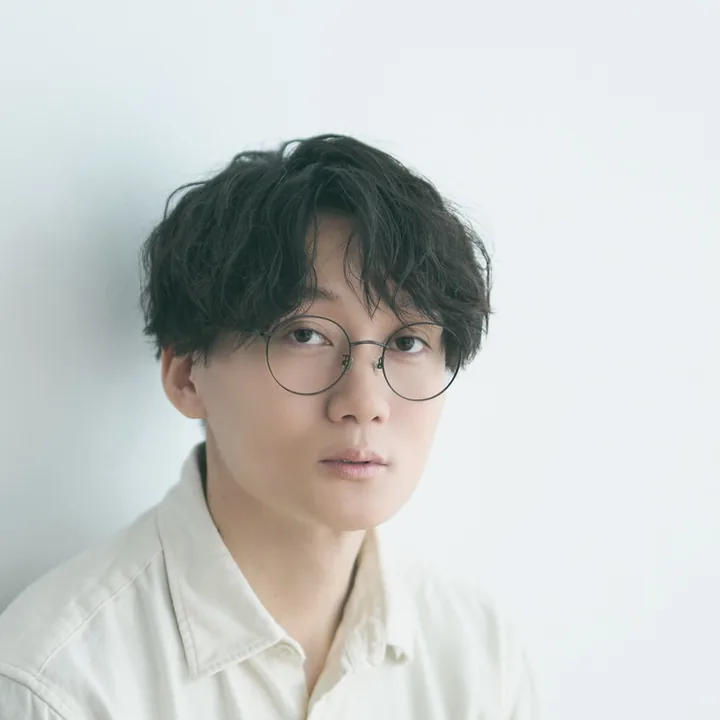
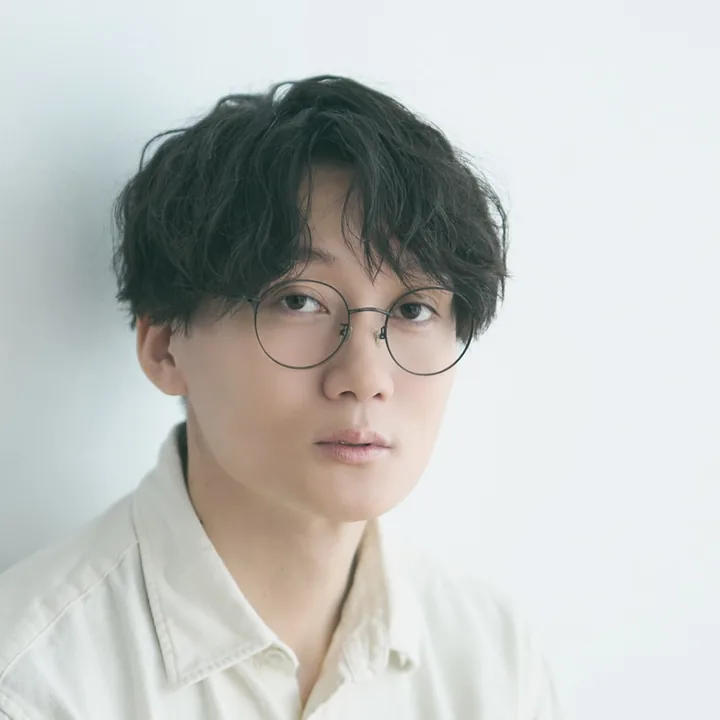
言祝ぎの家LP：キャスト写真の枠を四方から囲む額縁型に
U 字の枠をやめ、上・左右の細い枠と下の名前帯で正方形を囲む。顔が窓の中央に来るよう写真を切り直し。

Claude-Session: https://claude.ai/code/session_01MTWjuPFVkqbTtYkDqx6tuy

diff --git a/docs/kotohogi-lp.md b/docs/kotohogi-lp.md
@@ -85,3 +85,4 @@
 - キャスト欄（2026-10-02）：クレジットの前に #cast を追加。参考画像（松竹の映画サイトのキャスト一覧）の配置で、正方形の写真にマゼンタの U 字枠（窓に顔、下の帯に名前）を2列。役名は載せない。データは index.astro 冒頭の CAST（名前・写真・プロフィール）。クレジットの「出演」は CAST から自動。松井瑞季・椎名しおりのプロフィールを掲載、写真は 2026-10-02 にユーザーから直接受領（座っている男性＝松井瑞季、立っている女性＝椎名しおり）。顔が枠の窓に入るよう正方形に切り抜き 720px の cast-matsui.webp／cast-shiina.webp（EXIF・位置情報なし）。
 - キャスト写真の収まり（2026-10-02「顔にブロックが重なる」指摘）：U 字枠を細く・窓を広く（左右の柱を細め、名前の帯を低く）し、写真も引きで切り直して顔が窓の中に収まるように。
 - キャスト枠（2026-10-02「四角をブロックに沿わせて」）：U 字枠を写真の四角の左右・下の端にぴったり付けた（余白なし）。
+- キャスト枠（2026-10-02「上が詰まって見えるので正方形を囲う形に」）：U 字をやめ、四方を囲む額縁型（上・左右 8%、下の名前帯 20%）。顔が窓の中央に来るよう写真を切り直し。
